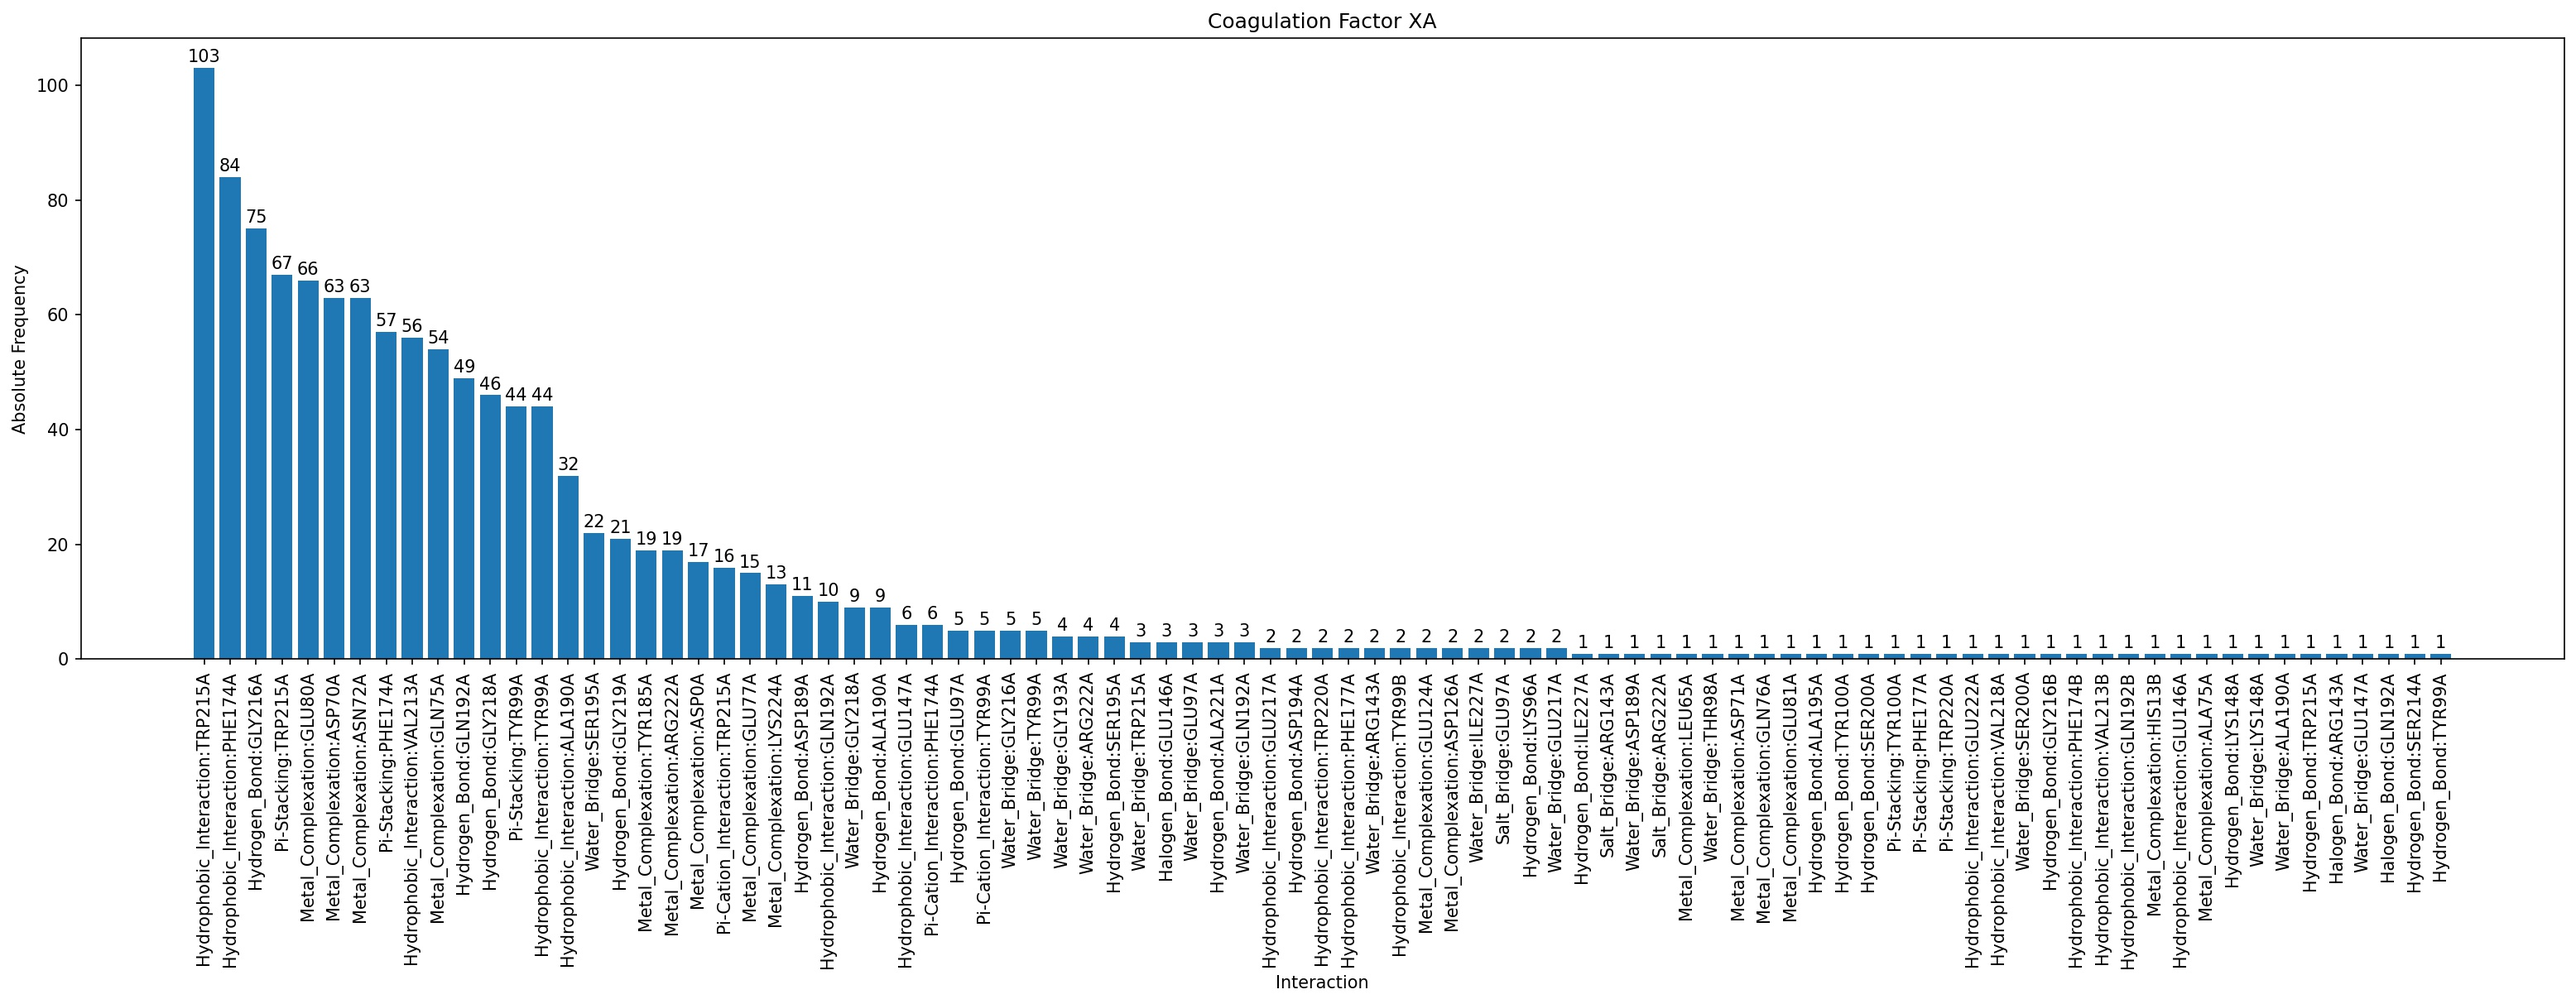
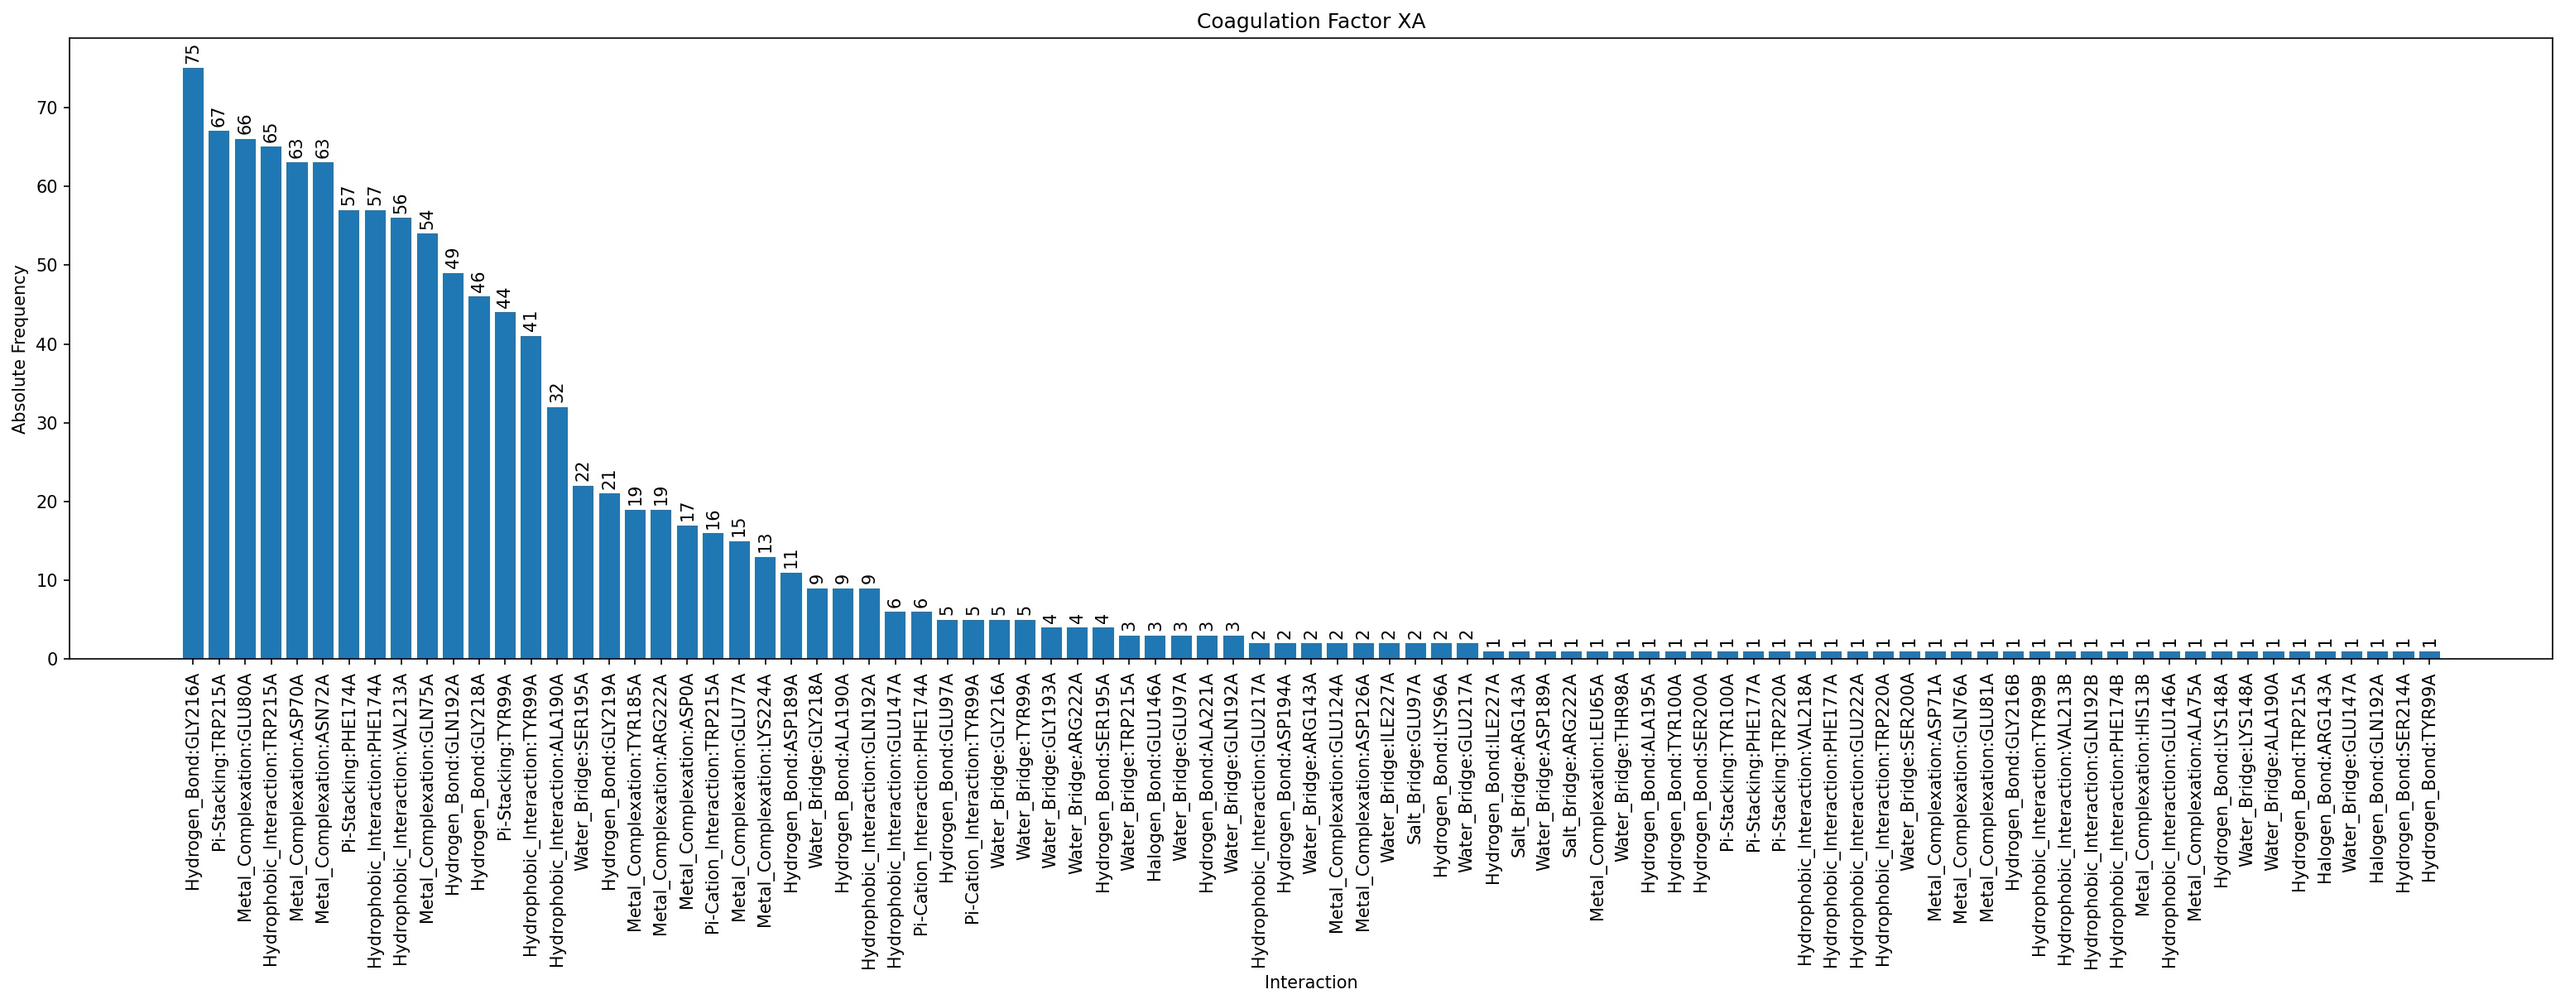
bump FXA results to newer version

diff --git a/data/coagulation_factor_xa/plip_analysis.py b/data/coagulation_factor_xa/plip_analysis.py
@@ -22,13 +22,21 @@ if __name__ == '__main__':
     PDB_ENTRIES = list(df["PDB_ENTRY"])
     print("First 5 PDB entries:")
     print(PDB_ENTRIES[:5])
-    result = pa(PDB_ENTRIES, path = "structures")
+    result = pa(PDB_ENTRIES, path = "structures", normalize = False)
     r = result.save("results/coagulation_factor_xa")
     print("Result saved in:")
     print(r)
     r = result.to_csv("results/coagulation_factor_xa_freq.csv")
     result.plot("Coagulation Factor XA", filename = "results/coagulation_factor_xa.jpg")
     result.plot("Coagulation Factor XA", filename = "results/coagulation_factor_xa.png")
+    # normalized analysis
+    result = pa(PDB_ENTRIES, path = "structures", normalize = True)
+    r = result.save("results/coagulation_factor_xa_normalized")
+    print("Result saved in:")
+    print(r)
+    r = result.to_csv("results/coagulation_factor_xa_normalized_freq.csv")
+    result.plot("Coagulation Factor XA", filename = "results/coagulation_factor_xa_normalized.jpg")
+    result.plot("Coagulation Factor XA", filename = "results/coagulation_factor_xa_normalized.png")
 
     # clean up
     os.remove("PLIPAnalyzer.py")
